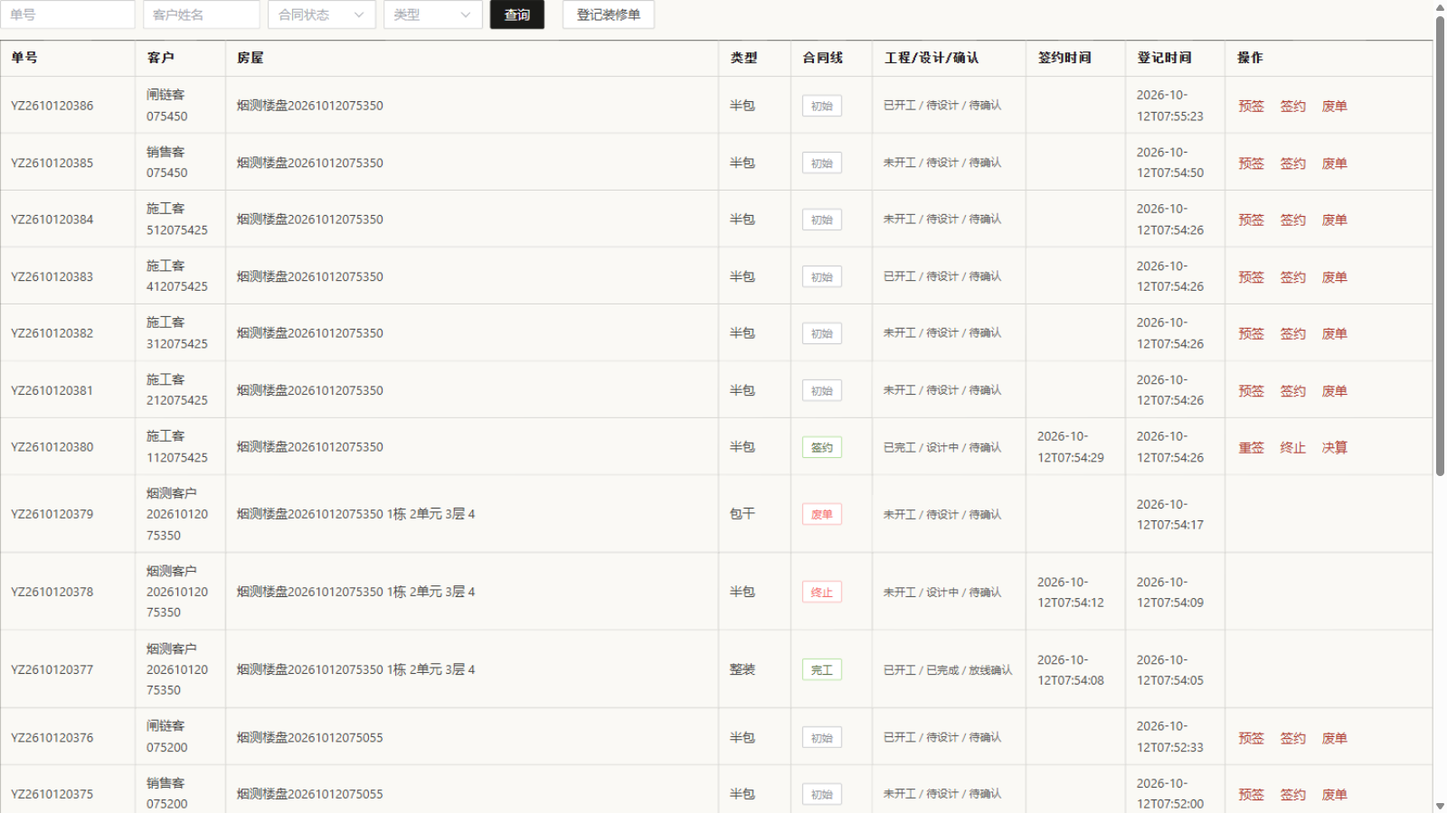
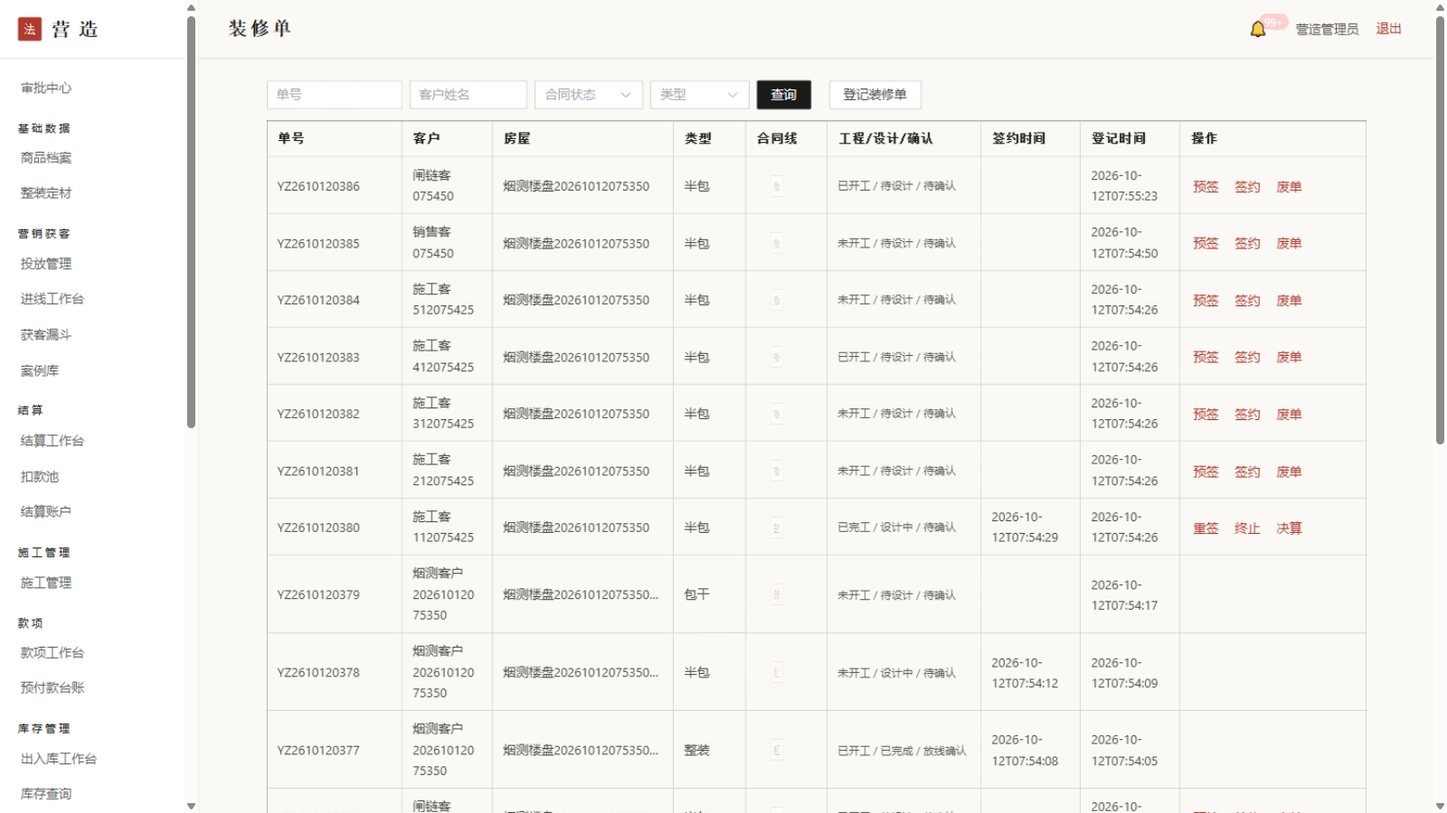
fix(web)+style(web): 管理后台改倒L布局并修复业务页脱离布局根因(用户反馈"进入具体页面无法访问其他页面")。①🔴根因:registerAddonRoutes用addRoute('/',…)按父名挂载而'/'路由无name,vue-router 4解析不到父路由时把业务页面注册成顶层路由(dev警告淹没)——顶部横导航从未在业务页出现过,任何业务页都不存在菜单,功能bug非视觉偏好;修复='/'路由显式name:'layout'+addRoute('layout',…)挂为布局子路由,导航全页常驻;②Layout.vue重写为倒L(用户拍板):左侧220px竖向菜单白纸面右

diff --git a/web/src/views/Layout.vue b/web/src/views/Layout.vue
@@ -1,32 +1,42 @@
 <template>
   <div class="shell">
-    <!-- 方向三:顶部横导航(古籍版式),弃侧栏 -->
-    <header class="topbar">
-      <div class="brand" @click="$router.push(menus[0] ? menus[0].path : '/approvals')">
-        <span class="logo yz-display">营造</span>
+    <!-- 倒 L 布局:左侧竖向菜单(按插件分组)+顶栏(页题/通知/用户) -->
+    <aside class="sidebar">
+      <div class="brand" @click="$router.push(menus.length ? menus[0].path : '/approvals')">
         <span class="yz-seal-stamp stamp">法</span>
+        <span class="logo yz-display">营造</span>
       </div>
-      <nav class="nav">
-        <router-link to="/approvals" class="nav-item" :class="{ active: $route.path === '/approvals' }">审批中心</router-link>
-        <router-link
-          v-for="m in menus"
-          :key="m.path"
-          :to="m.path"
-          class="nav-item"
-          :class="{ active: $route.path === m.path }"
-        >{{ m.title }}</router-link>
-        <router-link v-if="isAdmin" to="/roles" class="nav-item" :class="{ active: $route.path === '/roles' }">角色权限</router-link>
+      <nav class="menu">
+        <router-link to="/approvals" class="menu-item" :class="{ active: $route.path === '/approvals' }">审批中心</router-link>
+        <template v-for="group in groupedMenus" :key="group.addon">
+          <p class="group-name">{{ group.name }}</p>
+          <router-link
+            v-for="m in group.items"
+            :key="m.path"
+            :to="m.path"
+            class="menu-item"
+            :class="{ active: $route.path === m.path }"
+          >{{ m.title }}</router-link>
+        </template>
+        <template v-if="isAdmin">
+          <p class="group-name">系统管理</p>
+          <router-link to="/roles" class="menu-item" :class="{ active: $route.path === '/roles' }">角色权限</router-link>
+        </template>
       </nav>
-      <div class="right">
-        <NotificationBell />
-        <span class="user">{{ displayName }}</span>
-        <el-button link @click="logout">退出</el-button>
-      </div>
-    </header>
-    <main class="main">
-      <p v-if="$route.meta.title" class="page-title yz-display">{{ $route.meta.title }}</p>
-      <router-view />
-    </main>
+    </aside>
+    <div class="body">
+      <header class="topbar">
+        <p class="page-title yz-display">{{ $route.meta.title || '' }}</p>
+        <div class="right">
+          <NotificationBell />
+          <span class="user">{{ displayName }}</span>
+          <el-button link @click="logout">退出</el-button>
+        </div>
+      </header>
+      <main class="main">
+        <router-view />
+      </main>
+    </div>
   </div>
 </template>
 
@@ -43,15 +53,18 @@ const displayName = ref(localStorage.getItem('yz_display_name') || '')
 // 管理类入口可见性(RBAC):以登录回显的角色编码为准,服务端守卫才是真闸门
 const isAdmin = JSON.parse(localStorage.getItem('yz_roles') || '[]').includes('admin')
 
-const menus = computed(() =>
-  addons.list.flatMap((a) => (a.menus || []).map((m) => ({ ...m, addon: a.id })))
+// 左侧菜单按插件分组(组名 = addon.yml 的插件名),保持后端下发顺序
+const groupedMenus = computed(() =>
+  addons.list
+    .map((a) => ({ addon: a.id, name: a.name, items: a.menus || [] }))
+    .filter((g) => g.items.length > 0)
 )
 
 onMounted(async () => {
   const list = await loadAddons()
   registerAddonRoutes(list)
   if (router.currentRoute.value.path === '/') {
-    const first = menus.value[0]
+    const first = groupedMenus.value[0] && groupedMenus.value[0].items[0]
     if (first) router.push(first.path)
   }
 })
@@ -64,13 +77,80 @@ function logout() {
 </script>
 
 <style scoped>
-.shell { min-height: 100vh; display: flex; flex-direction: column; background: var(--yz-paper); }
+.shell {
+  min-height: 100vh;
+  display: flex;
+  background: var(--yz-paper);
+}
 
-/* 顶栏:纸面+底部细墨线,宋体品牌+朱印 */
+/* 左侧栏:白纸面+右缘细墨线;brand=朱印方章+宋体 */
+.sidebar {
+  width: 220px;
+  flex-shrink: 0;
+  background: #FFFFFF;
+  border-right: 1px solid var(--yz-line);
+  display: flex;
+  flex-direction: column;
+  position: sticky;
+  top: 0;
+  height: 100vh;
+  overflow-y: auto;
+  box-sizing: border-box;
+}
+
+.brand {
+  display: flex;
+  align-items: center;
+  gap: 10px;
+  padding: 0 20px;
+  height: 64px;
+  border-bottom: 1px solid var(--yz-line);
+  cursor: pointer;
+  flex-shrink: 0;
+}
+.logo { font-size: 22px; font-weight: 600; letter-spacing: 8px; line-height: 1; color: var(--yz-ink); }
+.stamp { width: 26px; height: 26px; font-size: 13px; }
+
+.menu { padding: 12px 0 24px; }
+
+.group-name {
+  margin: 16px 20px 6px;
+  font-size: 12px;
+  letter-spacing: 3px;
+  color: var(--yz-ink-35);
+}
+
+.menu-item {
+  display: block;
+  padding: 10px 20px;
+  font-size: 14px;
+  color: var(--yz-ink-70);
+  text-decoration: none;
+  border-left: 3px solid transparent;
+  line-height: 1.4;
+}
+
+.menu-item:hover { color: var(--yz-ink); background: var(--yz-paper-deep); }
+
+.menu-item.active {
+  color: var(--yz-ink);
+  font-weight: 600;
+  background: var(--yz-paper-deep);
+  border-left-color: var(--yz-seal);
+}
+
+/* 右侧:顶栏(页题+通知+用户)+内容区 */
+.body {
+  flex: 1;
+  display: flex;
+  flex-direction: column;
+  min-width: 0;
+}
+
 .topbar {
   display: flex;
   align-items: center;
-  gap: 32px;
+  justify-content: space-between;
   padding: 0 32px;
   height: 64px;
   background: var(--yz-paper);
@@ -79,23 +159,13 @@ function logout() {
   top: 0;
   z-index: 10;
 }
-.brand { display: flex; align-items: center; gap: 8px; cursor: pointer; }
-.logo { font-size: 24px; font-weight: 600; letter-spacing: 8px; line-height: 1; }
-.stamp { width: 24px; height: 24px; font-size: 12px; }
 
-.nav { display: flex; align-items: center; gap: 8px; flex: 1; }
-.nav-item {
-  padding: 8px 16px;
-  font-size: 15px;
-  color: var(--yz-ink-70);
-  text-decoration: none;
-  border-bottom: 2px solid transparent;
-  line-height: 1;
-}
-.nav-item:hover { color: var(--yz-ink); }
-.nav-item.active {
-  color: var(--yz-seal);
-  border-bottom-color: var(--yz-seal);
+.page-title {
+  margin: 0;
+  font-size: 20px;
+  font-weight: 600;
+  letter-spacing: 4px;
+  color: var(--yz-ink);
 }
 
 .right { display: flex; align-items: center; gap: 16px; }
@@ -103,17 +173,10 @@ function logout() {
 
 .main {
   flex: 1;
-  padding: 32px;
+  padding: 24px 32px;
   max-width: 1280px;
   width: 100%;
   margin: 0 auto;
   box-sizing: border-box;
-}
-/* 宋体页题:每页统一的书页页题 */
-.page-title {
-  margin: 0 0 24px;
-  font-size: 24px;
-  font-weight: 600;
-  letter-spacing: 4px;
 }
 </style>

diff --git a/web/src/router/index.js b/web/src/router/index.js
@@ -7,7 +7,7 @@ import Roles from '../views/Roles.vue'
 // 静态路由:登录 + 主布局 + 内核平台页(审批中心/角色权限)。业务路由由插件菜单动态注册(见 registerAddonRoutes)。
 const routes = [
   { path: '/login', component: Login },
-  { path: '/', component: Layout, children: [] },
+  { path: '/', name: 'layout', component: Layout, children: [] },
   { path: '/approvals', component: Layout, children: [{ path: '', component: ApprovalCenter, meta: { title: '审批中心' } }] },
   { path: '/roles', component: Layout, children: [{ path: '', component: Roles, meta: { title: '角色权限' } }] },
   { path: '/:pathMatch(.*)*', redirect: '/' }
@@ -32,7 +32,8 @@ export function registerAddonRoutes(addons) {
       const compKey = `../views/${segs[0]}/${page.charAt(0).toUpperCase()}${page.slice(1)}.vue`
       const comp = views[compKey]
       if (!comp) continue
-      router.addRoute('/', { path: menu.path, component: comp, meta: { addon: addon.id, title: menu.title } })
+      // 挂在 layout 名下(修:'/' 无 name 时按父名挂载失败,业务页被注册成顶层路由脱离布局,导航消失)
+      router.addRoute('layout', { path: menu.path, component: comp, meta: { addon: addon.id, title: menu.title } })
       existing.add(menu.path)
     }
   }

diff --git a/AGENTS.md b/AGENTS.md
@@ -66,7 +66,7 @@
 - 🔴 冒烟请求含中文必须用 python urllib(UTF-8),Git Bash 的 curl 发中文 = GBK 炸 JSON;
 - jar 被锁:按 8080 端口找 PID `taskkill //PID x //F`。
 
-## 当前进度(2026-10-12 夜间自动任务更新,第 29 次运行)
+## 当前进度(2026-10-12 夜间自动任务更新,第 30 次运行)
 
 - ✅ 41 模块过堂终版;插件框架六点代码化;客源→客户细链冒烟 7/7(b1bde89);客源 V2 分配链冒烟 12/12(9689f13);内核通知中心冒烟 16/16(0d7c914);内核轻量审批状态机冒烟 25/25(b68eb4f);示范插件 addon-example+Web 通知/审批工程页冒烟 28/28(e148667);
 - ✅ **uni-app 移动端骨架 `app/`**(第 6 次,一码三出):uni-app + Vue3 + Vite(@dcloudio 统一 3.0.0-alpha-5030120260930001,vite 5.2.8);八页 = 登录/工作台/客源登记/我的机会/我的审批(三视角+详情全操作)/通知列表/我的;API_BASE 条件编译;`build:h5`/`build:mp-weixin`/`build:app` 三端构建全绿;真机运行待 uni-app 账号与 appid;
@@ -100,12 +100,13 @@
 - ✅ **addon-sales V1 写码交付(第 24 次,写码模式第八个 addon:主材销售域,冒烟 673→864 步全绿终态见第 25 次首验;提交 3ad3e0d)**:①addons-api 新增两契约 `SalesOrderCreatedEvent`/`SalesOrderStatusChangedEvent`(action 键 fullRefund/countermand/finish/terminate)与 **`SalesApi` 只读契约**(collectedRatio 装修单名下销售款收款比例‰,消费方=施工闸)+ **PaymentApi 扩展 `submitRefund`**(实现在 addon-payment,整单退款+270012 幂等闸)+ **GoodsApi 扩展**(GoodsSummary 增 brandId/brandName 结算分组快照+listPackageItems 套餐成员只读,空列表=降级信号);②V1101 十表(counter/order 主单**四轴状态机**(主单轴沿老编号 0/2/3/4/5 缺1 保留+结算轴+款项轴+确认位)/item(package_id 套餐父子+五计数,xgnum 基线=num)/settlement(三段式 1单N品牌行,uk(org,sale,brand,type,rid) 兜底幂等)/refunds 族(审批驱动 3→0→1→2)/delivery 族(四级每级操作人+时间 8 列)/track/verify_code);③服务端算价拒前端金额(disPrice=selling×discount/1000→total=disPrice×num/1000 HALF_UP 长整);开单=DecorationApi 校验合同线非废单终止+套餐展开(子项不计总额老口径,空配置降级普通商品)+单号 XS+yyMMdd+4 位流水(uk 撞号重试不裸炸);改单全量替换守卫款项未付,已录未付自动 cancel+create 同步款项单;客户确认**三重校验服务端强制**(phone+code 同传,修老单传其一即绕过;验证码落表 10 分钟+通知中心转告,短信 V2);完结守卫全款确认+无未完配送;废单守卫四轴全初始放宽款项未付+联动 cancelBill;④**付款三事件回写**(collect→轴1/confirm→轴2+按品牌分组生成预结算行 insert ignore uk 幂等+结算轴 0→1/refunded→退货单已退款)+**库存四事件回写**(XG 扣 xgnum 原子守卫不足=超卖 300008 死信可见/删行回加/PU 加 punum/采购释放扣 punum 修老永不释放与 inventory 直改本域表;计数回写依赖总线 at-least-once 消费确认,exactly-once 待总线幂等表 V2);⑤结算三段式 vpost/post 条件 UPDATE+**vbalance/pbalance 双值人工修正服务端强校验非零且与金额同向**(修老拦截纯前端)+主单结算轴=行最小态重算+**驳回整单原子**(修老只删当前行兄弟残留);让利公式老三套量纲不自洽不迁 V1 balance=total;⑥退货=发起(300025 防重+**发起即原子预扣明细 num** 驳回回加)+内核轻量审批(AFTER_COMMIT+REQUIRES_NEW 军规8 SalesRefundApprovalListener:通过→主单轴 0/5→2/3,驳回→置无效+回加)+客户确认(三重+幂等)→**退货结算负值行**(守卫主单已预结 300019 显式报错修老静默;rid 幂等 300018)+**全退且金额一致→自动 submitRefund**(部分退/不符 300026 落人工);⑦配送=批次生成(守卫初始/完结+款项已付)+四级推进条件 UPDATE+留痕+**越级 300022 显式报错修老静默 continue**+完结回写 trnum;品牌跳级与分成克隆(PRD 默认砍)不迁;⑧**construction 销售款闸启用**(stacheck/fincheck 经 SalesApi,colletionRatio 聚合,免检位语义与装修款闸一致,新码 240025 双语);⑨错误码 300001-300031 同码同消息+i18n 中英双语;addon.yml 0.1.0(码段 300000/三菜单:销售单+结算工作台+配送履约/十组 dicts);⑩Web 三页(SalesOrders 列表四轴徽章+开单+详情抽屉全流转+SalesSettlements 结算工作台+Deliveries 配送看板),api/index.js 二十二函数,菜单动态注册零硬编码;⑪验证:npm build 全绿+dev 库 V1101 十表迁移成功(MySQL 5.6 日志实证)+冒烟最好一轮 **732/735**(3 fail=坏载荷死信环境性×1+**结算占位符错位 bug×2 已修复落码**:insert ignore 12 参对 11 位改 10?10 参)+**库中全链数据实证**(预结两品牌分组/双值修正/厂结/主单轴 3/整单驳回/退货审批/负值行/全退自动退款→PaymentRefundedEvent→退货单已退款);途中冒烟抓出并修复五处:①RefundApprovalListener 与 payment 同名 bean 冲突→更名 SalesRefundApprovalListener ②create() 把计数器 seq 当主单 id→改 insert 后 last_insert_id() ③撞号裸炸 110000→uk 撞号重试 3 次 ④syncBill 未录态误建款项单→updateItems 仅已录态重建/generateBill 无条件确保 ⑤占位符错位(见上);🔴下轮首验已由第 25 次兑现(见下条);自主决策(款项轴 V1 单全款线协议键 sales_full 定金线 V2/免付款通道不迁/让利公式不迁 balance=total/全局唯一流水修老公司级日流水/主单轴沿老编号/结算 4 完结旁路态不迁/验证码经通知转告短信 V2/计数回写幂等妥协声明/部分退货退款落人工/品牌跳级与分成克隆不迁)见报告 §五;
 - ✅ **addon-sales V1 首验全绿收官(第 25 次,第 24 次"下轮首验"兑现)**:①mvn clean package 复编译全绿+npm build 全绿+起服务补齐 smoke README 快退避五环境变量(BACKOFFSECONDS=1/BACKOFFCAP=5/MAXRETRIES=2/POLLINTERVAL=2000/POLLINITIALDELAY=3000);②**冒烟 864/864 全绿一次通过**(673→864;第 24 次 732/735 系 sales 段中途失败提前 return finish() 的截断计数,本夜完整跑通,死信链首次转绿);③增补修复三处(代码已随 3ad3e0d 入库):**退款落人工不阻塞客户确认**(submitRefundForFull 原对金额不符抛 300026 会回滚部分退货的确认事务,违 PRD"落人工"口径→改 refundManual 轨迹留痕,300026 码位保留)/**部分退货不置主单轴**(onApprovalFinished 原一律置 2/3 打死完结,改 drained 判定=主项 SUM(num)=0 才置轴,回归老系统"退货不改主单轴"正统语义 rules/sales.md §5,冒烟互斥断言同步修正)/**冒烟健壮性**(死信固定 sleep 25s 改轮询至多 75s,修默认 60s 退避基数下的必假死+对账 SQL pymysql 参数化后字面 % 转义 %%);④第 24 次 §三"宿主机进程异常"根因实证=**平行无人值守会话遗留后台任务树互杀**(模式:轮询 8080→taskkill 当前持有者→自起 jar→跑冒烟,排队任务陆续触发;PowerShell 哨兵按会话 id 匹配命令行两轮清杀 20+ 排队 bash 后环境清净,冒烟一次全绿);**运行纪律两条**:夜间任务起服务前必查 8080 占用与遗留 java/后台任务(本机可能存在平行会话)/冒烟失败先查服务存活与事件表状态,区分产品缺陷·环境互扰·时序脆弱三类再动手;详见 docs/reports/2026-10-13-第25次运行总结.md;
 - ✅ **addon-balance V1 写码交付(第 26 次,写码模式第九个 addon:结算汇聚域,冒烟 864→1001 全绿一次通过)**:①addons-api 四契约 `SettlementItemReadyEvent`(上游携金额快照,退货行负值生成侧完成)/`SettlementItemWithdrawnEvent`(上游撤回,未锁定桶摘行重算,锁定后死信)/`SettlementItemReleasedEvent`(balance→上游解绑退回,上游自回置对账状态,废直写三字段)/`SettlementSettledEvent`;②addon-sales 回补首个上游接入:结算行 post(结算)发布 Ready(快照=行终值,vpost 不发金额未定),替代老 SALES_AUTO_BALANCE 跨模块服务直调;③V1301 八表(统一结算单+快照行 **uk(source 三元组) 全局只挂一单修老外销防重缺失**/account uk(org,belonger,type) 净头寸不变式 surplus=refer−real/account_detail append-only/池/扣款单/子流水仅留痕修老双计/轨迹全动作覆盖)MySQL 5.6 兼容;④吸附聚桶键=org+settlement_type(sourceAddon:sourceType 复合协议键)+brand+supplier+grade,**select for update 串行化建桶修老并发双桶**;同键同金额重放幂等/同键异金额=上游修正(仅初始态);⑤四态机 0→1→2(可选审)→3→4,终态写拒全断言;⑥账户双腿收编 f384101d3 终态:台账腿原子消耗结算单余量+出纳现金腿原子扣减+**归属账户懒开户同步(insert ignore 兜并发,允许透支=预付)**+守卫族(类型/归属一致/停用/金额恒正)+补出纳入金 cashIn(老收款单语义);⑦扣款池三守卫闭环(池原子 SQL/unbind·deduct 状态守卫/金额恒正)+bind-unbind 精确逆操作对称+绑定时机统一为结算后+返款仅字典预留;⑧完结唯一定义=显式端点(已结算+surplus 清零+已付款)单向无逆向+付款标批量全或无;⑨错误码 320001-320025 双语+addon.yml 0.1.0(三菜单+八组 dicts 含修老字典缺 0 键);⑩Web 三页 Settlements(四态列表+详情抽屉明细快照/双腿操作/流水 timeline)+Accounts(建户/停启/入金/流水)+Cutpays(池+扣款单闭环),api/index.js 三十一函数;⑪验证:mvn+npm 双绿+V1301 迁移成功+冒烟 **864→1001/1001 全绿一次通过**(balance 段 137 步含 sales 真链端到端 post 事件吸附/双死信/不变式 pymysql 直查);⑫途中冒烟抓出并修复:**page 分页查询 List 未 toArray 八处**(queryForList(sql,List) 把 List 当 varargs 单元素绑定→param2 missing 列表端点全 500——balance 四处当场修+**addon-sales 四处潜伏**(orders/refunds/deliveries/settlements 列表,第 24 次冒烟只打 detail 未覆盖,Web 页一开即 500))+冒烟自身三处(漏财务确认步骤/固定 supplier 复跑污染→归属人时间戳化可重复执行/URL %3A 撞 % 格式化);自主决策(绑定时机统一结算后/折扣仅初始态/pending 不迁/返款预留/出纳入金补齐/完结显式端点/供应商身份字符串 grade 上游携带/聚桶含 sourceType/sales vpost 不发/修正语义/停用池闸/吸附零 REST 旁路)见报告 §三;
+- ✅ **管理后台倒 L 布局 + 业务页脱离布局根因修复(第 30 次,用户反馈"进入具体页面无法访问其他页面")**:①🔴根因=registerAddonRoutes 用 addRoute('/',…) 按父名挂载而 '/' 路由无 name,vue-router 解析不到父路由把业务页注册成顶层路由——顶部导航从未在业务页出现(功能 bug 非视觉偏好);修复='/' 显式 name:'layout'+addRoute('layout',…) 挂为布局子路由,导航全页常驻;②Layout.vue 重写为**倒 L**(用户拍板):左侧 220px 分组菜单(brand 朱印方章+宋体移入侧栏/组名=插件名淡墨小字/激活项左缘朱印条+纸深底/审批中心置顶+角色权限归系统管理组仅 admin)+顶栏(宋体页题+通知铃+用户+退出);菜单 24 项竖排分组,横排溢出一并消解;③docs/screenshots/web 十一张全部重截(倒 L 版);web npm build 全绿;
 - ✅ **README 截图预览+双端定档+两个 Web 路由 bug 修复(第 29 次,用户提议截图/问双端)**:①docs/screenshots 16 张(Web 11@1600×900+app H5 5@390×844,浏览器自动化,dev 冒烟库假数据)+README「界面预览」图文两节;②README「双端形态」定档=同一后端双前端应用(员工端现有 app/账号密码+RBAC;客户端=规划中独立 uni-app 工程+官网 Web,案例报名/施工进度对外/名片/会员积分,手机验证码/openid,匿名端点归 RBAC v2 段,后端零分叉),路线图 2.5 补条目,**客户端工程排期挂 RBAC v2 之后不立空壳**;③🔴**深链接失效修复**(main.js:先 mount 后注册动态路由→直连/刷新业务 URL 被 pathMatch 甩到第一个菜单,用户浏览器刷新即复现;修为 loadAddons→register→mount);④🔴**菜单 path 与组件文件名失配修复**(registerAddonRoutes 约定 path 末段 PascalCase=文件名,Decorations/SalesOrders/SalesSettlements 三文件单复数失配→装修单/销售单/销售结算三菜单路由从未注册;菜单 path 系 RBAC 授权契约不可改,git mv 组件对齐;python 全量盘点 23 菜单失配清零);⑤app index.html viewport document.write 泄漏修复(uni-app 模板拼串写成分离文本);web npm build 全绿+深链接回归全过;
 - ✅ **app(uni-app)端样式对齐方向三(第 28 次,用户拍板:视觉验收默认通过/app 对齐推进/凭证后续补齐)**:App.vue 全局 token 化(纯 CSS 变量挂 page 选择器零新依赖,三端通用;纸白/墨黑/朱印红唯一点缀/苔绿/赭金,方角 4rpx,新增 yz-display·yz-eyebrow·yz-seal 品牌工具类)+pages.json 导航栏 tabBar 纸白墨黑+login 古籍扉页重做(朱印方章+双线版框+版心尾注)+九页 scoped 色值清零(审批 tab 激活朱印红/通过苔绿驳回朱印转交赭金/fab·头像墨黑方章);build:h5·mp-weixin·app 三端全绿;自主决策(tabBar 选中墨黑非朱印保持唯一点缀/warning=赭金 A6864B/success=苔绿同 web/badge 头像方角化)见报告 §三;
 - ✅ **addon-market V1 写码交付(第 27 次,写码模式第十个 addon:营销获客域,行业插件套件 V1 收官,冒烟 1001→1087 全绿)**:①addons-api 两契约 `InboundAcceptedEvent`(载荷携 phoneHmac 明文不进 outbox)/`MarketApi`(beginAccept 幂等闸/acceptResult 回写/revealPhone 解密留痕,实现在 addon-market);②addon-market V1001 十三表:campaign(0草稿→2发布→3停用→5归档,老死态不迁,发布后编辑拒)/channel(**带恢复接口修老停用即终局**)/source(渠道码 16hex 服务端生成+uk DB 兜底+URL+UTM 三件套)/inbound(**uk(org,idempotent_key) 幂等键 DB 兜底**+归因三键冗余+手机 cipher/hash 双轨+case_name 快照)/inbound_item(EAV)/attribution(insert-only 逐级落行 0提交/1建客源/2建机会)/track(submit/retry/ignore/acceptFail 修老 retry 无日志)/phone_access_log(解密留痕)/案例库四表(城市人物 uk 查重+使用中删守卫/案例上下架+删除级联图片+效果图 cycle 锁 0);③登记三重校验(源存在启用归属一致→活动已发布→渠道启用)+匿名进线显式 allowAnonymous(禁掺 UUID)+并发同键仅一条(幂等查询+DB uk 双兜底);④**承接事件化**(PRD 红线兑现):登记发 InboundAcceptedEvent→addon-customer 消费(0.3.0 回补 MarketInboundConsumer+InboundAcceptService)→单事务「认领 0→3→解密留痕→建客源(chance 档 auto 派发机会)→回写 3→1+归因」→业务失败整体回滚+置 2 留因(人工 retry/ignore,无孤儿数据);⑤漏斗按活动/渠道两级四级计数(有效进线=status1 口径);⑥报名=一种进线入口(复用幂等/密文/承接,废老独立明文 ecustomer);⑦错误码 280001-280026 双语+addon.yml 0.1.0(四菜单/十组 dicts);⑧Web 四页(Campaigns 三 tab 投放物+**qrcode 二维码弹窗**/Inbounds 工作台+详情抽屉/Funnels 漏斗条/Showcase 案例库四 tab),api/index.js 四十四函数;⑨验证:mvn+npm 双绿+V1001 迁移成功(MySQL 5.6)+冒烟 **1001→1087/1087 全绿**(market 段 86 步:状态机守卫族/UTM 拼接/承接端到端(客源+机会实证)/幂等命中回全量/两并发同键/匿名链失败留痕-重试-忽略全闭环/漏斗计数/案例库守卫族/密文+留痕 pymysql 直查/事件重放幂等/级联删除/总线对账零滞留);途中冒烟抓出并修复两处产品 bug:**建案例 insert 占位符错位**(type 列被字面 0 顶掉 12>11 全 500,第 24 次同款坑)+caseDetail 复用守卫查询缺列;冒烟脚本自身四处(重名断言先于首建/int(stamp) 带字母/280010 幽灵源构造错位/api_err 缺 body×4);自主决策(承接失败即时置 2 不走总线重试/匿名进线承接必失败人工兜底/幂等键服务端唯一口径不暴露 clientKey/归因逐级落行替代单条推导/承接中态 3 显式建模/case_name 快照/拼音自动生成砍掉/C 端露 10 条不迁/报名验证码不迁走登录态端点/预算入厘)见报告 §三;
 - ⏳ 待用户(2026-10-12 拍板:视觉验收默认通过/app 对齐推进/凭证后续补齐不阻塞):真机视觉验收(appid)/ 企微钉钉凭证 / Docker 环境;
 - ⏳ 可自动推进(**写码模式路线图 ①-⑨ 全部完成,行业插件套件 V1 收官**):~~①addon-basedata V1~~(✅ 第 18 次)~~②addon-payment V1~~(✅ 第 19 次,含内核事件总线三件套)~~③addon-decoration V1~~(✅ 第 20 次,事件回程车首战)~~④addon-quotation V1~~(✅ 第 21 次)~~⑤addon-construction V1~~(✅ 第 22 次)~~⑥addon-inventory V1~~(✅ 第 23 次)~~⑦addon-sales V1~~(✅ 第 24 次交付+第 25 次首验 864/864)~~⑧addon-balance V1~~(✅ 第 26 次,冒烟 1001/1001)~~⑨addon-market V1~~(✅ 第 27 次,冒烟 1087/1087);**下一阶段候选**:跨域回归+九域规则交叉核对第二遍(十一插件 V1 全交付的自然节点)/ 事件总线 Spring 监听渐进迁移(customer LeadConverted 链首选)/ RBAC v2 按 §9 实施清单写码(报名/官网开放匿名端点依赖此项)/ addon-supplier 厂商主数据 / addon-member 会员营销(积分商城)/ customerprofile 楼盘·房屋与 /api/events Web 管理页补齐 / basedata Excel 导入器 V1.1 / decoration 决算六项检查配置表 V2 / app 端样式对齐方向三;
-- 📋 每晚自动任务收尾:`docs/reports/<日期>-总结.md`(同日多运行按次序号区分),最新=2026-10-12-第29次运行总结.md。
+- 📋 每晚自动任务收尾:`docs/reports/<日期>-总结.md`(同日多运行按次序号区分),最新=2026-10-12-第30次运行总结.md。
 
 ## Git 纪律
 

diff --git a/docs/reports/2026-10-12-第30次运行总结.md b/docs/reports/2026-10-12-第30次运行总结.md
@@ -1,0 +1,34 @@
+# 2026-10-12 第 30 次运行总结:管理后台改倒 L 布局 + 修复业务页脱离布局的根因(用户反馈驱动)
+
+> 用户反馈:"菜单和页面布局参考原有倒 L 的方式,目前进入到具体页面就无法访问其他页面内容"。核查证实这不是视觉偏好问题而是**功能 bug**:业务路由从未挂进布局,任何业务页面都不存在导航。本批修复根因 + 按用户要求重排为倒 L(左侧分组菜单+顶栏),Web 十一截图全部重截。web npm build 全绿。
+
+## 一、根因与修复
+
+1. **🔴 业务页脱离布局(功能 bug,用户报告的现象根源)**:`registerAddonRoutes` 用 `router.addRoute('/', {...})` 按父名挂载,但 `'/'` 路由**没有 name**——vue-router 4 解析不到父路由时把业务页面**注册成顶层路由**(dev 警告被淹没),页面脱离 Layout 渲染:顶部横导航从未在业务页出现过,"进入具体页面就无法访问其他页面"。修复:`'/'` 路由显式 `name: 'layout'`,`addRoute('layout', ...)` 挂为布局子路由——顶栏/侧栏在全部业务页常驻;
+2. **倒 L 布局重排(Layout.vue 重写,按用户拍板)**:左侧 220px 竖向菜单(白纸面+右缘细墨线;brand=朱印方章「法」+宋体营造;菜单按插件分组,组名=插件名淡墨小字;激活项=左缘朱印条+纸深底;审批中心置顶、角色权限归"系统管理"组仅 admin 可见)+右侧顶栏(宋体页题+通知铃+用户名+退出)+内容区。菜单 24 项竖排分组,横排溢出问题一并消解;视觉仍守方向三 token;
+3. 上一批的深链接修复(main.js 先注册后挂载)与组件改名与本批修复互补:深链接 → 初始导航命中;name 挂载 → 命中后包在布局内。
+
+## 二、验证终态
+
+- web `npm run build` 全绿(10.82s);
+- 浏览器实证:`/decoration/orders` 直连渲染 = 左侧分组菜单(基础数据/营销获客/结算/施工管理/款项/库存管理…)+顶栏(宋体页题「装修单」+通知 badge+用户名)+内容表格,菜单点击切换常驻可用;
+- docs/screenshots/web 十一张全部重截(倒 L 版),截图逐一核验 URL 命中与布局完整。
+
+## 三、自主决策记录
+
+1. 菜单分组直接用插件名(addon.yml name),组序=后端下发顺序(配置即序),不另设手排权重——新增插件自动成组;
+2. 顶栏保留页题(meta.title)+通知铃+用户+退出;brand 移入侧栏顶部(倒 L 惯例);
+3. 侧栏 sticky+独立滚动,内容区 max-width 1280 居中(大屏表格不无限拉伸)。
+
+## 四、待用户决策清单
+
+无新增(客户端排期、README 效果过目两项沿用上批)。
+
+## 五、下次执行建议
+
+按既定顺序:跨域回归+九域规则交叉核对第二遍 → RBAC v2 写码 → addon-supplier / addon-member。
+
+## 六、提交
+
+- 本批:web router/index.js(name 挂载修复)/Layout.vue 倒 L 重写/docs/screenshots/web 十一张重截/本报告/AGENTS.md;
+- 零后端改动,老系统零触碰。
